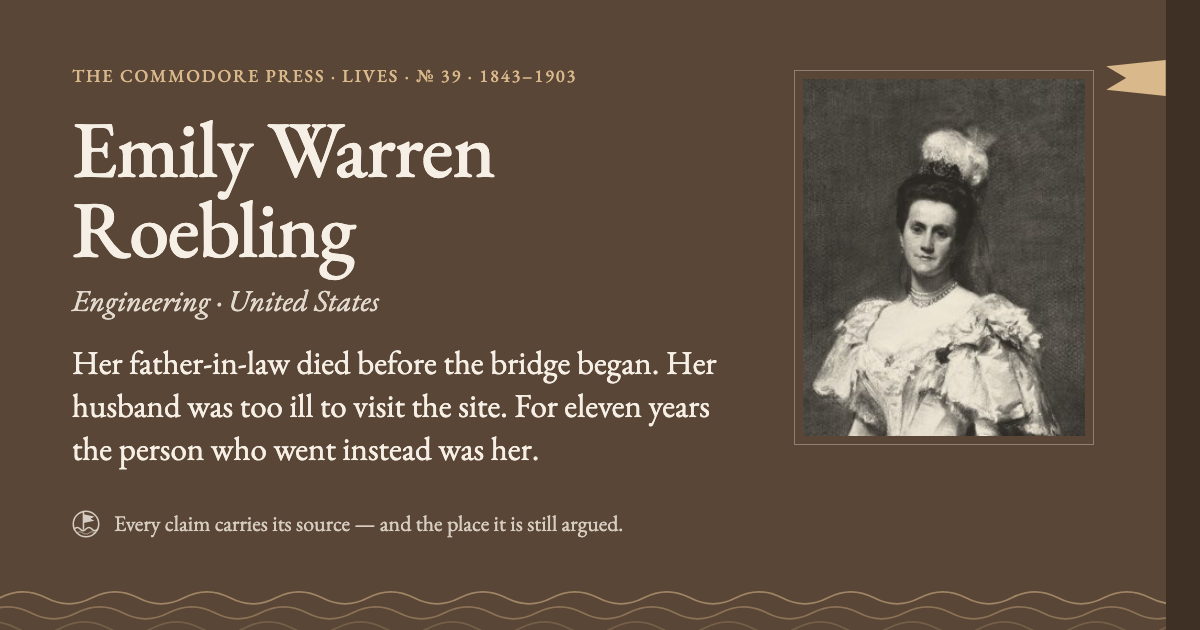
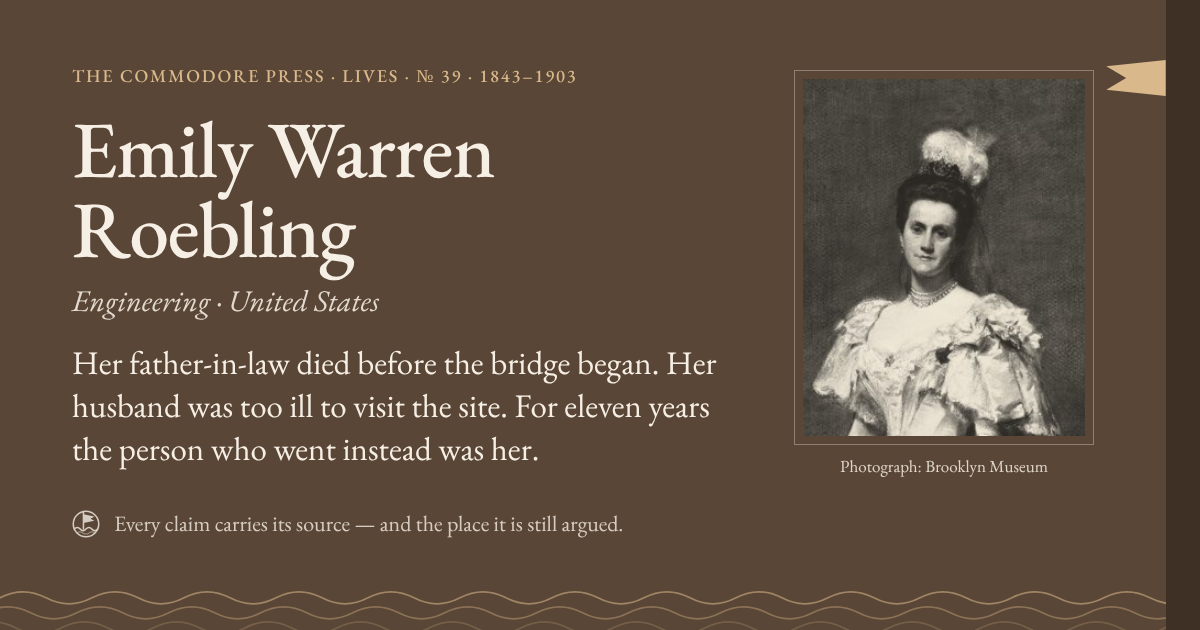
Three plates sourced; the colophon corrected (correction 21)
The Roebling, Ibn Khaldun and Arkhipov plates went up on 22 September with
no recorded source, while the colophon said no image of any of them had
been cleared. Each Commons record was opened on 24 October and its image
compared with the plate: all three match, all three public domain.

- Arkhipov: U.S. Navy photograph of B-59 forced to the surface near Cuba,
  28-29 October 1962, NARA 428-N-711200. `plateOf` set, so the page no
  longer calls a submarine a portrait.
- Ibn Khaldun: Muqaddimah, MS Atif Efendi 1936, fol. 7a, Suleymaniye
  Library, which Commons records as his own hand. `plateOf` set.
- Roebling: Carolus-Duran, 1896, Brooklyn Museum 1994.69.1, "no known
  copyright restrictions". Recorded as a narrower claim, like the
  Smithsonian and Science History Institute plates, and credited.
- Colophon: the portrait-less list drops the three, adds the three it
  had left out (Malcom McLean, Rose Blumkin, Henry Singleton), and is now
  one sentence per life instead of one 439-word sentence. Every reason is
  kept as it was.
- Correction 21 says what the colophon had claimed; the three entries
  carry it in `corrected`.
- Share cards re-rendered for the three entries only.

Claude-Session: https://claude.ai/code/session_0175QyZMuaqwyqxu4nnQjEu2

diff --git a/templates/shell.html b/templates/shell.html
@@ -147,7 +147,7 @@
           <p>This is a library, not a credential. It holds what I have read, what I think it means, and — deliberately, in every wing — the places where the people who know most still disagree. A claim without its dispute is half a claim.</p>
           <p>The two wings are one method applied to people, two ways round. <b>Lives</b> is the people themselves, one book each; <b>The Atlas</b> is the people I listen to now, and the principles I hear more than one of them teach. The library used to run to five wings — a set of field manuals and a trade book of operating lessons. Both were positions stated without anyone standing behind them, and they came down in September 2026 so that everything here is attached to a person you can go and check. A third, <b>the Press</b> — {{N_BOOKS}} titles on the ideas people spent their lives inside — was retired on 14 October 2026. Nothing in it was withdrawn as wrong: its titles keep their own pages, with their sources, their disputes and their corrections, for anyone who holds a link, and the <a href="contents/#press">contents</a> still lists them.<!--LOGCOLOPHON--></p>
           <p>Set in EB Garamond and IBM Plex Mono. Assembled by hand and with AI assistance; figures are checked against a named source, and where I have corrected myself the correction stays visible rather than being quietly patched. The reading wings are set on paper. The Atlas is the only room kept dark: it is drawn as a sea chart, the one room here that is a map rather than a page, and a chart is read by lamplight.</p>
-          <p>The portraits in Lives are public-domain engravings, paintings and photographs, reduced to the house duotone and set as plates. A life without a safely public image carries the press mark instead of a borrowed picture, which seems the more honest trade. {{W_PLATELESS_CAP}} lives are in that position today. Henrietta Lacks is there by decision; her entry says why at length, and her estate has itself disputed the use of family photographs. Ibn Khaldun, Clair Patterson, Vasily Arkhipov, Emily Warren Roebling, Alice Ball, Edward Thorp, Hedy Lamarr, Chester Carlson, Kelly Johnson, Claude Shannon, Henry J. Kaiser, Akio Morita, Larry Gagosian, Levi Strauss, Milton Hershey and Howard Hughes are there because no image of any of them has yet been cleared: no portrait of Ibn Khaldun from his own lifetime is known, Patterson's photographs sit in an archive that grants permission only on request, the one openly licensed photograph of Arkhipov was tagged by an uploader who does not appear to have held the rights to grant it, the Library of Congress portrait of Roebling is a 1953 print of a photograph taken between 1860 and 1880 and the Library records that it found no information on creator or reproduction rights at all, no photograph of Ball has been found under any licence we can stand behind, Thorp is alive and photographed by working photographers, whose pictures are theirs, and the 1939 Los Angeles Times portrait of Lamarr is tagged elsewhere as openly licensed while the library that holds it says, for that collection, that permission to publish must be asked for in writing, and the only photographs of Carlson the house has found are held by Xerox or by the archives of his papers, or printed on a postage stamp, and none comes with a licence we can stand behind, and the one portrait of Kelly Johnson tagged as a government work is a 1970s portrait of a Lockheed vice-president that the CIA reproduced, most likely a company photograph rather than the agency's own, and the one openly licensed portrait of Shannon is licensed by a Swedish museum that names neither the photographer nor the date, so its right to grant the licence is asserted rather than shown, and the only Library of Congress portrait catalogued under Kaiser's name shows a young army corporal, not the industrialist, while the Truman Library offers its photograph of him at the user's own risk, and the photograph of Morita from the São Paulo state government's archive, taken in 1972 and public domain in Brazil, carries no statement of its status in the United States, while the others found are under a United States copyright restored in 1996 or too small to print, and Gagosian, like Thorp, is alive and photographed by working photographers, and the portraits of Levi Strauss in circulation trace to a fashion blog, a stock-certificate dealer and an undated upload, with no photographer, date or publication recorded for any of them, while the company's own prints come with no licence, and the portraits of Hershey in circulation come from the Hershey Community Archives with a public-domain tag supplied by the uploader and no photographer or publication recorded, and the Library of Congress print of Hughes is a Wide World Photos agency picture whose rights the Library has not evaluated. The Roebling case is the closest of these: the original is old enough to be out of copyright several times over, and a faithful reproduction of it would add nothing new. It is held back anyway, because &ldquo;the Library found nothing&rdquo; is not the same statement as &ldquo;there are no known restrictions&rdquo;, and this house has already turned down two images on thinner doubts than that. {{W_CCPLATES_CAP}} plates are licensed rather than public domain, and are credited here because the licence requires it: the Mandela photograph is by South Africa The Good News (sagoodnews.co.za) under CC BY 2.0; the Steve Jobs photograph was taken at WWDC in 2010 by Matthew Yohe under CC BY-SA 3.0; the Tu Youyou photograph was taken in Stockholm on 6 December 2015 by Bengt Nyman under CC BY-SA 4.0; the 1955 photograph of Rosalind Franklin at her microscope is credited to the MRC Laboratory of Molecular Biology, from the personal collection of her sister Jenifer Glynn, under CC BY-SA 4.0; the photograph of Samuel Zemurray, taken on 10 January 1934 for the Los Angeles Times, is from the Los Angeles Times Photographic Collection at UCLA Library Special Collections, under CC BY 4.0; the autochrome of Ivar Kreuger, taken on 8 March 1930 by Georges Chevalier, is from the musée Albert-Kahn, Département des Hauts-de-Seine (A74890), under CC BY 4.0; the 1973 photograph of David Geffen under the Roxy marquee is by Tony Barnard for the Los Angeles Times, from the Los Angeles Times Photographic Collection at UCLA Library Special Collections, under CC BY 4.0; the Kobe Bryant photograph was taken at the Lakers’ game in Washington on 3 December 2014 by Keith Allison under CC BY-SA 2.0; the James Dyson photograph was taken on 29 August 2011 by Nobuyuki Hayashi under CC BY 2.0; and the 2010 photograph of Charlie Munger is by Nick Webb under CC BY 2.0. Each has been cropped and reduced to the house duotone, which the licences ask us to say. {{W_NARROW_CAP}} more are neither plain public domain nor licensed but held under a narrower claim, and the claim is worth repeating in the holder's own words: the 1939 photograph of Robert Moses is by C. M. Stieglitz for the New York World-Telegram &amp; Sun, held by the Library of Congress, which states that it knows of no copyright restrictions on it; the 1963 photograph of Wu Chien-Shiung at Columbia comes from the Smithsonian Institution Archives, published with no known copyright restrictions; the photograph of Frances Kelsey receiving her award from President Kennedy comes from the National Library of Medicine, which believes the item to be in the public domain; the April 1936 photograph of Frances Perkins is by Harris &amp; Ewing, held by the Library of Congress, which states that it knows of no copyright restrictions on it; the photograph of Edwin Land presenting at Polaroid is by Bernard Gotfryd, held by the Library of Congress, which states that there are no known restrictions on its publication; the carte de visite of Harriet Tubman, made in Auburn, New York, in 1868 or 1869, is by Benjamin F. Powelson, held by the Library of Congress, which states that there are no known restrictions on its publication; the photograph of Henry Ford, about 1919, is by Fred Hartsook, from the National Photo Company collection at the Library of Congress, which states that there are no known copyright restrictions on its use; the 1897 photograph of Hetty Green is by Hollinger &amp; Rockey, held by the Library of Congress, which states that there are no known restrictions on its publication; the 1936 photograph of Charles Kettering is by Harris &amp; Ewing, held by the Library of Congress, which states that there are no known restrictions on its publication; the 1930s studio portrait of Thomas Midgley Jr. by Blank &amp; Stoller of New York comes from the Science History Institute, which reasonably believes it is not restricted by copyright but says a conclusive determination could not be made; the 1981 photograph of Barbara McClintock holding her Lasker Award and an ear of corn is by Bernard Gotfryd, held by the Library of Congress, which states that there are no known restrictions on its publication; the photograph of Annie Turnbo Malone is from a Poro College souvenir booklet printed between 1920 and 1927, held by the Smithsonian’s National Museum of African American History and Culture, which lists no known copyright restrictions on it; the 1966 photograph of Estée Lauder at a cosmetics counter is by Bill Sauro, a World Journal Tribune staff photograph held by the Library of Congress in its New York World-Telegram &amp; Sun collection, for whose staff photographs the Library states that there are no known restrictions on publication; the portrait of Jay Gould, dated about 1875, is from the George Grantham Bain Collection at the Library of Congress, which states that there are no known restrictions on its publication; the 1937 photograph of Walter Chrysler is by Harris &amp; Ewing, held by the Library of Congress, which states that there are no known restrictions on its publication; and the photograph of Wilbur Wright of about 1905, attributed to Wilbur or Orville Wright themselves, is held by the Library of Congress, which states that there are no known restrictions on its publication. Everything else came through Wikimedia Commons.</p>
+          <p>The portraits in Lives are public-domain engravings, paintings and photographs, reduced to the house duotone and set as plates. A life without a safely public image carries the press mark instead of a borrowed picture, which seems the more honest trade. {{W_PLATELESS_CAP}} lives are in that position today. Henrietta Lacks is there by decision; her entry says why at length, and her estate has itself disputed the use of family photographs. The rest are there because no image of them has yet been cleared. Clair Patterson's photographs sit in an archive that grants permission only on request. No photograph of Alice Ball has been found under any licence we can stand behind. Edward Thorp and Larry Gagosian are alive and photographed by working photographers, whose pictures are theirs. The 1939 Los Angeles Times portrait of Hedy Lamarr is tagged elsewhere as openly licensed, while the library that holds it says, for that collection, that permission to publish must be asked for in writing. The only photographs of Chester Carlson the house has found are held by Xerox or by the archives of his papers, or printed on a postage stamp, and none comes with a licence we can stand behind. The one portrait of Kelly Johnson tagged as a government work is a 1970s portrait of a Lockheed vice-president that the CIA reproduced, most likely a company photograph rather than the agency's own. The one openly licensed portrait of Claude Shannon is licensed by a Swedish museum that names neither the photographer nor the date, so its right to grant the licence is asserted rather than shown. The only Library of Congress portrait catalogued under Henry J. Kaiser's name shows a young army corporal, not the industrialist, while the Truman Library offers its photograph of him at the user's own risk. The photograph of Akio Morita from the São Paulo state government's archive, taken in 1972 and public domain in Brazil, carries no statement of its status in the United States; the others found are under a United States copyright restored in 1996 or too small to print. The portraits of Levi Strauss in circulation trace to a fashion blog, a stock-certificate dealer and an undated upload, with no photographer, date or publication recorded for any of them, and the company's own prints come with no licence. The portraits of Milton Hershey in circulation come from the Hershey Community Archives with a public-domain tag supplied by the uploader and no photographer or publication recorded. The Library of Congress print of Howard Hughes is a Wide World Photos agency picture whose rights the Library has not evaluated. No public-domain portrait of Malcom McLean has been found; the one openly licensed photograph names no photographer and its source page is gone. For Rose Blumkin and Henry Singleton the house has no record of a search yet. Where no likeness can be used but something from the life can, the plate shows that instead, a manuscript page or a boat, and says so under the picture. {{W_CCPLATES_CAP}} plates are licensed rather than public domain, and are credited here because the licence requires it: the Mandela photograph is by South Africa The Good News (sagoodnews.co.za) under CC BY 2.0; the Steve Jobs photograph was taken at WWDC in 2010 by Matthew Yohe under CC BY-SA 3.0; the Tu Youyou photograph was taken in Stockholm on 6 December 2015 by Bengt Nyman under CC BY-SA 4.0; the 1955 photograph of Rosalind Franklin at her microscope is credited to the MRC Laboratory of Molecular Biology, from the personal collection of her sister Jenifer Glynn, under CC BY-SA 4.0; the photograph of Samuel Zemurray, taken on 10 January 1934 for the Los Angeles Times, is from the Los Angeles Times Photographic Collection at UCLA Library Special Collections, under CC BY 4.0; the autochrome of Ivar Kreuger, taken on 8 March 1930 by Georges Chevalier, is from the musée Albert-Kahn, Département des Hauts-de-Seine (A74890), under CC BY 4.0; the 1973 photograph of David Geffen under the Roxy marquee is by Tony Barnard for the Los Angeles Times, from the Los Angeles Times Photographic Collection at UCLA Library Special Collections, under CC BY 4.0; the Kobe Bryant photograph was taken at the Lakers’ game in Washington on 3 December 2014 by Keith Allison under CC BY-SA 2.0; the James Dyson photograph was taken on 29 August 2011 by Nobuyuki Hayashi under CC BY 2.0; and the 2010 photograph of Charlie Munger is by Nick Webb under CC BY 2.0. Each has been cropped and reduced to the house duotone, which the licences ask us to say. {{W_NARROW_CAP}} more are neither plain public domain nor licensed but held under a narrower claim, and the claim is worth repeating in the holder's own words: the 1939 photograph of Robert Moses is by C. M. Stieglitz for the New York World-Telegram &amp; Sun, held by the Library of Congress, which states that it knows of no copyright restrictions on it; the 1963 photograph of Wu Chien-Shiung at Columbia comes from the Smithsonian Institution Archives, published with no known copyright restrictions; the photograph of Frances Kelsey receiving her award from President Kennedy comes from the National Library of Medicine, which believes the item to be in the public domain; the April 1936 photograph of Frances Perkins is by Harris &amp; Ewing, held by the Library of Congress, which states that it knows of no copyright restrictions on it; the photograph of Edwin Land presenting at Polaroid is by Bernard Gotfryd, held by the Library of Congress, which states that there are no known restrictions on its publication; the carte de visite of Harriet Tubman, made in Auburn, New York, in 1868 or 1869, is by Benjamin F. Powelson, held by the Library of Congress, which states that there are no known restrictions on its publication; the photograph of Henry Ford, about 1919, is by Fred Hartsook, from the National Photo Company collection at the Library of Congress, which states that there are no known copyright restrictions on its use; the 1897 photograph of Hetty Green is by Hollinger &amp; Rockey, held by the Library of Congress, which states that there are no known restrictions on its publication; the 1936 photograph of Charles Kettering is by Harris &amp; Ewing, held by the Library of Congress, which states that there are no known restrictions on its publication; the 1930s studio portrait of Thomas Midgley Jr. by Blank &amp; Stoller of New York comes from the Science History Institute, which reasonably believes it is not restricted by copyright but says a conclusive determination could not be made; the 1981 photograph of Barbara McClintock holding her Lasker Award and an ear of corn is by Bernard Gotfryd, held by the Library of Congress, which states that there are no known restrictions on its publication; the photograph of Annie Turnbo Malone is from a Poro College souvenir booklet printed between 1920 and 1927, held by the Smithsonian’s National Museum of African American History and Culture, which lists no known copyright restrictions on it; the 1966 photograph of Estée Lauder at a cosmetics counter is by Bill Sauro, a World Journal Tribune staff photograph held by the Library of Congress in its New York World-Telegram &amp; Sun collection, for whose staff photographs the Library states that there are no known restrictions on publication; the portrait of Jay Gould, dated about 1875, is from the George Grantham Bain Collection at the Library of Congress, which states that there are no known restrictions on its publication; the 1937 photograph of Walter Chrysler is by Harris &amp; Ewing, held by the Library of Congress, which states that there are no known restrictions on its publication; the 1896 portrait of Emily Warren Roebling by Carolus-Duran is in the Brooklyn Museum (1994.69.1), which considers it to have no known copyright restrictions; and the photograph of Wilbur Wright of about 1905, attributed to Wilbur or Orville Wright themselves, is held by the Library of Congress, which states that there are no known restrictions on its publication. Everything else came through Wikimedia Commons.</p>
           <div class="corr" id="corrections"></div>
           <p>New lives and every correction are also sent by <a href="updates.xml">RSS</a>, so a correction reaches a reader who follows the house as surely as a new book does.</p>
           <div class="lbl q" style="margin:30px 0 10px">Disclosure</div>

diff --git a/dashboard/commissions.md b/dashboard/commissions.md
@@ -38,11 +38,11 @@ in it carries a named source.
 | idea | Lives | Sol Price | Commissioned by Luca 2026-09-20 and **not written, for the same reason and more sharply.** The argument is good — the warehouse club is his, FedMart then Price Club, and Walton was unusually open about where he got it — but no openable source was found for any of it on 2026-09-20. The San Diego History Center's search returns navigation only; SEC EDGAR refuses robots; and a Library of Congress search for "Price Club" returns nothing but century-old newspapers from Price, Utah. | San Diego History Center by hand rather than by search; the Price family foundation; a trade-press archive | find one openable document that states the FedMart and Price Club dates, then commission it properly |
 | ready | Lives | Samuel Zemurray, Edwin Land, Aristotle Onassis | Written 2026-09-30 at Luca's request, each with a plate and every figure sourced. Each fixes the popular version from a document: Zemurray's "You're fired!" is Rich Cohen's; Time, six months after the meeting, has the president, not the chairman, and a different line — and the CIA's own history of the 1954 Guatemala coup never names him. Land's 1943 origin story is his own, told in 1965; the record starts with two colleagues' memos of December 1943. Onassis's "$7 million fine" was a civil settlement; six of his corporations were fined $160,000 between them and the charges against him were dropped (Washington Post, 22 December 1955). Two new plate obligations: Zemurray is CC BY 4.0 (UCLA), Land is Library of Congress "no known restrictions"; both credited in the colophon. | `dashboard/research-leads.md`, 2026-09-29/30 | `/press-proofread`, then ship. Onassis's birth year is printed as c. 1904 because Harlaftis has moved it twice (1900 → 1904) and his own account says 1906 |
 | commissioned | Lives | Hedy Lamarr — the plate | The best image, a Los Angeles Times portrait of 19 January 1939 (UCLA, ark:/21198/zz002d9663), is tagged CC BY 4.0 on Commons on the strength of "the bulk of images digitized from the archive have been published by UCLA under a CC BY 4.0 license". The item's own Calisphere record gives Rights Information as "US" and nothing else, and the collection's finding aid (OAC, kt7489n8x1) says copyright to "portions" of the archive was assigned to UCLA and that "all requests for permission to publish must be submitted in writing". That is not a licence for this item. The 1944 Modern Screen image is tagged PD-US-not-renewed with no renewal search shown. **The same doubt applies to the Samuel Zemurray plate**, from the same archive, cleared 2026-09-30 on the Commons tag alone | UCLA Library Special Collections (AskLSC@library.ucla.edu), asking whether zz002d9663 is published under CC BY 4.0 | Luca decides: write to UCLA about both the Lamarr and Zemurray images, or find a PD-US image with renewal evidence |
-| commissioned | Lives | Emily Warren Roebling — the plate | The Library of Congress holds a head-and-shoulders portrait (item 98502685), catalogued as a 1953 print of a photograph taken between 1860 and 1880. The underlying photograph is out of copyright several times over and a faithful reproduction of a flat public-domain original adds no new copyright, so this is probably usable. The reason it is not already on the shelf is the wording of the rights box: the Library records **"No information on creator or on reproduction rights found with the image, 1997"**, which is an absence of information, not the affirmative "no known restrictions on publication" that cleared the Perkins and Moses plates. The house has turned down two images this month on thinner doubts, and being stricter with one subject than another is how a standard stops meaning anything. | LOC item 98502685; or an 1860–1880 original with a traceable publication | **2026-10-23:** a different image, apparently Carolus-Duran's 1896 portrait (Brooklyn Museum 1994.69.1), has been on the shelf since 22 September with no record of its source. See research-leads.md. Next: open the museum and Commons records, then set the credit, or take the plate down |
+| published | Lives | Emily Warren Roebling — the plate | The Library of Congress holds a head-and-shoulders portrait (item 98502685), catalogued as a 1953 print of a photograph taken between 1860 and 1880. The underlying photograph is out of copyright several times over and a faithful reproduction of a flat public-domain original adds no new copyright, so this is probably usable. The reason it is not already on the shelf is the wording of the rights box: the Library records **"No information on creator or on reproduction rights found with the image, 1997"**, which is an absence of information, not the affirmative "no known restrictions on publication" that cleared the Perkins and Moses plates. The house has turned down two images this month on thinner doubts, and being stricter with one subject than another is how a standard stops meaning anything. | LOC item 98502685; or an 1860–1880 original with a traceable publication | **2026-10-23:** a different image, apparently Carolus-Duran's 1896 portrait (Brooklyn Museum 1994.69.1), has been on the shelf since 22 September with no record of its source. Closed 2026-10-24: record opened and matched; credited as a narrower claim; correction 21 |
 | commissioned | Lives | Alice Ball — the plate | No photograph found under a licence this house can stand behind. The Library of Congress has none of her. The well-known 1915 portrait sits with the University of Hawaiʻi, which publishes it without stating terms, and "published on a university page" is not a licence. | University of Hawaiʻi Mānoa archives; scholarspace.manoa.hawaii.edu | write to UH and ask on what terms the portrait may be reproduced, or set `plateless` permanently with the reason |
-| commissioned | Lives | Ibn Khaldun — the plate | No contemporary portrait exists. The 10-dinar banknote photo on Commons is self-licensed CC BY-SA, but the design belongs to the Banque Centrale de Tunisie; the 1982 statue in Tunis sits under a 2009 freedom-of-panorama exception that excludes "artistic heritage bequeathed by former generations", and nobody has settled whether a 1982 bronze counts | Commons: Statue of Ibn Khaldun in Tunis | **2026-10-23:** a manuscript page (lead: Atıf Efendi 1936) has been on the shelf since 22 September, captioned "Portrait of Ibn Khaldun", with no recorded source. See research-leads.md. Next: open the records and set `plateOf`, or take the plate down and set `plateless` |
+| published | Lives | Ibn Khaldun — the plate | No contemporary portrait exists. The 10-dinar banknote photo on Commons is self-licensed CC BY-SA, but the design belongs to the Banque Centrale de Tunisie; the 1982 statue in Tunis sits under a 2009 freedom-of-panorama exception that excludes "artistic heritage bequeathed by former generations", and nobody has settled whether a 1982 bronze counts | Commons: Statue of Ibn Khaldun in Tunis | **2026-10-23:** a manuscript page (lead: Atıf Efendi 1936) has been on the shelf since 22 September, captioned "Portrait of Ibn Khaldun", with no recorded source. Closed 2026-10-24: Commons record opened and matched; `plateOf` set; correction 21 |
 | commissioned | Lives | Clair Patterson — the plate | No lawfully usable image found. Caltech Archives holds the portraits but grants no licence, only permission on written request; the one Commons file tagged PD has an impossible 1940 date and a dispute flag | archives@caltech.edu, citing an image ID from digital.archives.caltech.edu | write to Caltech, or set `plateless` |
-| commissioned | Lives | Vasily Arkhipov — the plate | The only openly licensed photograph on Commons is tagged CC BY-SA 4.0 by an uploader who sourced it from a blog crediting it "courtesy of" Arkhipov's widow. Courtesy is permission to publish, not a licence to grant | Commons: File:Vasili_Arkhipov.jpg; or a Soviet-era publication that would make it PD-Russia | **2026-10-23:** a photograph of a surfaced Foxtrot-class submarine has been on the shelf since 22 September, captioned "Portrait of Vasily Arkhipov", with no recorded source. See research-leads.md. Next: match the NARA frame and set `plateOf`, or take the plate down |
+| published | Lives | Vasily Arkhipov — the plate | The only openly licensed photograph on Commons is tagged CC BY-SA 4.0 by an uploader who sourced it from a blog crediting it "courtesy of" Arkhipov's widow. Courtesy is permission to publish, not a licence to grant | Commons: File:Vasili_Arkhipov.jpg; or a Soviet-era publication that would make it PD-Russia | **2026-10-23:** a photograph of a surfaced Foxtrot-class submarine has been on the shelf since 22 September, captioned "Portrait of Vasily Arkhipov", with no recorded source. Closed 2026-10-24: Commons record (NARA 428-N-711200) opened and matched; `plateOf` set; correction 21 |
 
 ## Retired
 

diff --git a/dashboard/research-leads.md b/dashboard/research-leads.md
@@ -463,3 +463,21 @@ when, where it is held), add a `plate-licences.json` entry if the record carries
 credit or condition, and correct the colophon's list of portrait-less Lives through
 `npm run correct`. If a record cannot be found, the plate comes down and the entry carries
 the press mark, as the colophon already says it does.
+
+**Closed 2026-10-24.** All three records were opened (through the Apify connector, at
+Luca's instruction, because this environment's network refuses Commons), and each plate
+was compared with the record's own image and matched:
+
+- `vasily-arkhipov` → Commons `File:Soviet b-59 submarine.jpg`: "Soviet submarine B-59,
+  forced to the surface by U.S. Naval forces in the Caribbean near Cuba. U.S. National
+  Archives, Still Pictures Branch, Record Group 428, Item 428-N-711200", 28–29 October 1962,
+  U.S. Navy photographer, public domain. (The item is -711200, not the -711201 the lead had.)
+- `ibn-khaldun` → Commons `File:Ibn Khaldūn autograph, al-Muqaddima, MS Atıf Efendi 1936,
+  f. 7a.png`, credited "Süleymaniye Kütüphanesi, Istanbul", public domain.
+- `emily-warren-roebling` → Commons `File:Brooklyn Museum - Portrait of Emily Warren
+  Roebling - Charles-Émile-Auguste Carolus-Duran (cropped).jpg`, Brooklyn Museum 1994.69.1,
+  "Photo: Brooklyn Museum", uploaded by the museum, which considers it to have "no known
+  copyright restrictions". Recorded in `plate-licences.json` as a narrower claim, like the
+  Smithsonian and Science History Institute plates.
+
+Correction 21 prints what the colophon had said.
